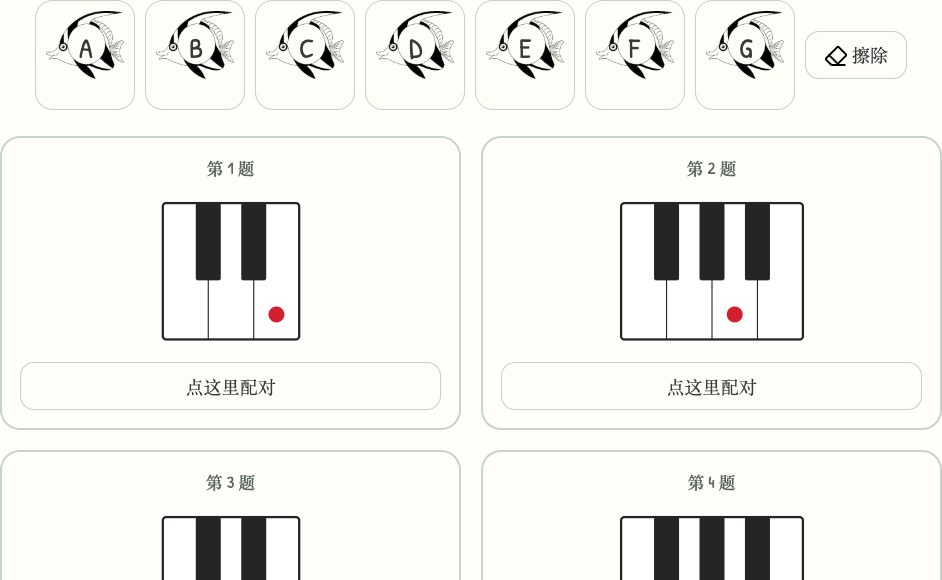
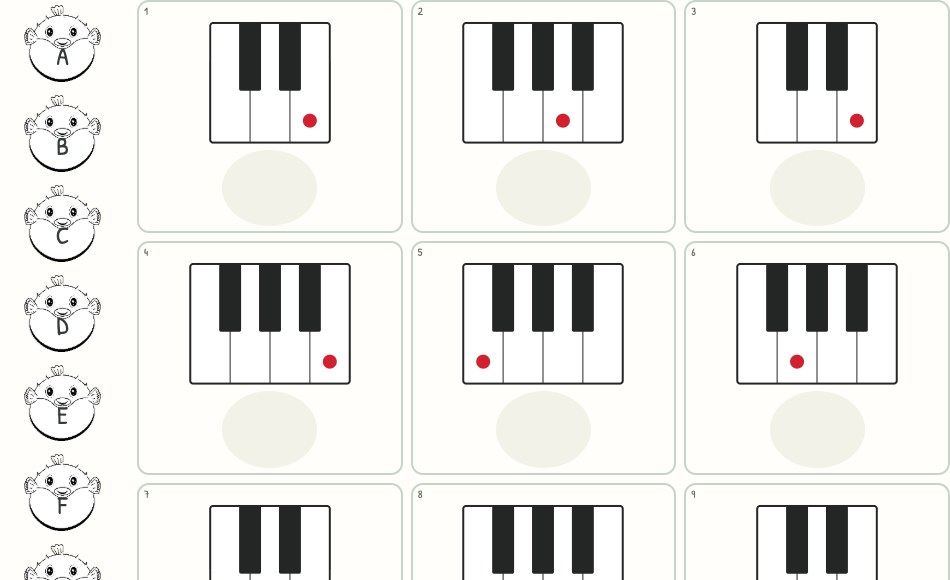
恢复P-005原图并改为九题同屏练习

Changed region(s): [[0.0, 0.0, 1.0, 1.0], [0.2155, 0.2793, 0.2771, 0.3103], [0.1231, 0.6207, 0.1539, 0.6517]]

diff --git a/keyboard_names.css b/keyboard_names.css
@@ -1,1 +1,46 @@
 .paper{padding:28px;min-height:0}.key-question-grid{display:grid;grid-template-columns:repeat(3,minmax(0,1fr));gap:20px}.key-question{min-width:0;border:2px solid #c5d5c7;border-radius:20px;background:#fffefa;padding:18px;text-align:center}.key-question h2{font-size:17px;color:#5a665e;margin:0 0 14px}.marked-keyboard{display:block;width:100%;max-width:300px;height:150px;margin:0 auto 18px}.match-target{width:100%;min-height:48px}.letter-choices{display:flex;flex-wrap:wrap;justify-content:center;gap:6px}.letter-choices button{min-width:44px;min-height:44px;padding:6px;font-size:24px}.letter-choices button[aria-pressed=true],.name-fish[aria-pressed=true]{outline:3px solid #aa462f;background:#fae6d4}.fish-bank{display:flex;flex-wrap:wrap;justify-content:center;gap:10px;margin:0 0 26px}.name-fish{position:relative;width:100px;min-height:110px;padding:6px;border-radius:18px}.name-fish img{display:block;width:100%;height:68px;object-fit:contain}.name-fish strong{position:absolute;left:44%;top:28px;font-size:28px}.name-fish small{display:block;height:20px;font-size:13px}.fish-bank>button[data-erase]{align-self:center;min-height:48px}.fish-bank>button[data-erase] img{vertical-align:middle}.cloud{position:static;display:inline-block;max-width:100%;margin:0 10px 20px 0}button:focus-visible{outline:3px solid #215eaa;outline-offset:3px}@media(max-width:1000px){.key-question-grid{grid-template-columns:repeat(2,minmax(0,1fr))}}@media(max-width:600px){.paper{padding:16px}.key-question-grid{grid-template-columns:1fr}.name-fish{width:80px}.name-fish strong{left:42%;top:30px;font-size:24px}.name-fish img{height:64px}.marked-keyboard{height:145px}}@media print{.fish-bank{break-inside:avoid}.key-question{break-inside:avoid}.key-question-grid{grid-template-columns:repeat(3,minmax(0,1fr))}}
+
+/* P-005 keeps the complete fish bank and all nine targets visible together. */
+body[data-activity="fish-keys"]{height:100dvh;display:flex;flex-direction:column;overflow:hidden}
+body[data-activity="fish-keys"] header{width:100%;padding:8px 18px;min-height:44px}
+body[data-activity="fish-keys"] main{width:min(1100px,100%);min-height:0;flex:1;display:flex;flex-direction:column;margin:0 auto;padding:0 12px}
+body[data-activity="fish-keys"] .profiles{margin:0 0 2px;font-size:12px;position:relative;z-index:3}
+body[data-activity="fish-keys"] .profiles[open]{position:absolute;top:44px;left:12px;right:12px;background:#fffefa;border:1px solid #ccc;border-radius:12px;padding:12px}
+body[data-activity="fish-keys"] .heading{padding:0}
+body[data-activity="fish-keys"] h1{font-size:25px;margin:0;letter-spacing:2px}
+body[data-activity="fish-keys"] .eyebrow,body[data-activity="fish-keys"] .subtitle,body[data-activity="fish-keys"] .instructions p:lang(en){display:none}
+body[data-activity="fish-keys"] .instructions{margin:3px 0 6px;display:flex;align-items:center;justify-content:center;gap:8px}
+body[data-activity="fish-keys"] .instructions p{font-size:14px;margin:0}
+body[data-activity="fish-keys"] .instructions #speak{margin:0;min-width:44px;min-height:44px;padding:4px 8px;white-space:nowrap}
+body[data-activity="fish-keys"] #speech-status:empty{display:none}
+body[data-activity="fish-keys"] .paper{flex:1;min-height:0;padding:8px 12px;display:flex;flex-wrap:wrap;border-radius:18px;align-content:stretch}
+body[data-activity="fish-keys"] .cloud{font-size:12px;min-width:0;padding:2px 8px;margin:0 8px 5px 0;max-width:70%;border:0;line-height:18px;height:22px}
+body[data-activity="fish-keys"] #activity-board{width:100%;min-height:0;flex:1;display:grid;grid-template-columns:clamp(65px,16vw,125px) minmax(0,1fr);gap:12px;height:calc(100% - 27px)}
+body[data-activity="fish-keys"] .fish-bank{display:grid;grid-template-columns:1fr;grid-template-rows:repeat(8,minmax(44px,1fr));gap:3px;margin:0;min-height:0}
+body[data-activity="fish-keys"] .name-fish{width:100%;height:100%;min-height:44px;padding:2px;border:1px solid transparent;border-radius:12px;background:#fffefa}
+body[data-activity="fish-keys"] .name-fish[data-used=true]{background:#c6e9ba;border-color:#88b477}
+body[data-activity="fish-keys"] .name-fish[aria-pressed=true]{background:#ffdf6b;outline:2px solid #b89229;outline-offset:-2px}
+body[data-activity="fish-keys"] .matched-fish{display:block;position:relative;width:100%;height:100%;min-height:24px;border:2px solid transparent;border-radius:50%}
+body[data-activity="fish-keys"] .matched-fish img{display:block;width:100%;height:100%;object-fit:contain}
+body[data-activity="fish-keys"] .matched-fish strong{position:absolute;left:50%;top:66%;transform:translate(-50%,-50%);font-size:clamp(17px,2.5vh,27px);line-height:1}
+body[data-activity="fish-keys"] .fish-bank>button[data-erase]{min-height:44px;height:100%;padding:2px;align-self:stretch}
+body[data-activity="fish-keys"] .key-question-grid{grid-template-columns:repeat(3,minmax(0,1fr));grid-template-rows:repeat(3,minmax(0,1fr));gap:8px;min-height:0}
+body[data-activity="fish-keys"] .key-question{padding:0;min-height:0;border-radius:12px;position:relative}
+body[data-activity="fish-keys"] .match-target{position:relative;display:flex;flex-direction:column;align-items:center;justify-content:center;width:100%;height:100%;min-height:44px;padding:5px;border:0;background:transparent;gap:3px}
+body[data-activity="fish-keys"] .question-number{position:absolute;left:5px;top:2px;font-size:11px;color:#66735f}
+body[data-activity="fish-keys"] .marked-keyboard{width:100%;height:0;min-height:0;flex:1;margin:8px 0 0;max-width:180px}
+body[data-activity="fish-keys"] .match-target .matched-fish{height:35%;width:70%;max-width:95px;flex-shrink:0;background:#f3f2e8}
+body[data-activity="fish-keys"] .match-target .matched-fish img{visibility:hidden}
+body[data-activity="fish-keys"] .match-target[aria-label*="已选"] .matched-fish img{visibility:visible}
+body[data-activity="fish-keys"] .matched-fish.fish-error{border:2px dashed #d32030}
+body[data-activity="fish-keys"] .retry-answer{position:absolute;right:3px;bottom:2px;background:#fff2b8;border:2px solid #d32030;border-radius:8px;min-width:24px;line-height:1.1;font-size:24px;color:#a41023}
+body[data-activity="fish-keys"] footer{padding:5px 0 8px;gap:4px 10px;flex-shrink:0}
+body[data-activity="fish-keys"] #feedback{margin:0;font-size:14px;min-height:20px;line-height:20px}
+body[data-activity="fish-keys"] footer button{min-height:44px;padding:4px 16px;font-size:16px}
+@media(max-height:600px){body[data-activity="fish-keys"] .profiles{display:none}body[data-activity="fish-keys"] .fish-bank{grid-template-columns:repeat(2,minmax(44px,1fr));grid-template-rows:repeat(4,minmax(44px,1fr))}body[data-activity="fish-keys"] #activity-board{grid-template-columns:clamp(100px,19vw,180px) minmax(0,1fr)}body[data-activity="fish-keys"] .heading h1{font-size:21px}body[data-activity="fish-keys"] .instructions{margin:0 0 3px}body[data-activity="fish-keys"] .match-target .matched-fish{height:42%;min-height:20px}body[data-activity="fish-keys"] .matched-fish strong{font-size:17px}}
+@media(max-width:450px){body[data-activity="fish-keys"] main{padding:0 6px}body[data-activity="fish-keys"] .paper{padding:6px}body[data-activity="fish-keys"] #activity-board{gap:6px}body[data-activity="fish-keys"] .key-question-grid{gap:5px}body[data-activity="fish-keys"] .instructions p{font-size:12px}body[data-activity="fish-keys"] .match-target{padding:4px 2px}}
+body[data-activity="fish-keys"] .paper{display:grid;grid-template-columns:minmax(0,1fr) auto;grid-template-rows:27px minmax(0,1fr);align-content:stretch}
+body[data-activity="fish-keys"] #activity-board{grid-column:1/-1;width:100%;height:100%}
+body[data-activity="fish-keys"] .cloud{max-width:100%;width:max-content}
+@media(max-height:600px){body[data-activity="fish-keys"] footer{flex-wrap:nowrap;padding:3px 0;min-height:50px}body[data-activity="fish-keys"] #feedback{flex-basis:auto;flex:1;text-align:left;font-size:12px;line-height:16px}body[data-activity="fish-keys"] footer button{padding:4px 12px;white-space:nowrap}body[data-activity="fish-keys"] .cloud{font-size:11px}}
+@media(max-height:600px) and (min-width:600px){body[data-activity="fish-keys"] .match-target{flex-direction:row;padding:4px 9px;gap:6px}body[data-activity="fish-keys"] .marked-keyboard{height:100%;width:65%;flex:none;margin:0}body[data-activity="fish-keys"] .match-target .matched-fish{height:100%;width:30%;min-height:24px}body[data-activity="fish-keys"] .question-number{left:3px;top:0}}

diff --git a/fish-keys.html b/fish-keys.html
@@ -41,22 +41,22 @@
         <p class="subtitle">Match the fish and the marked key</p>
       </div>
       <section class="instructions">
-        <p>先选一条音名小鱼，再点相应的键盘。每条小鱼只能配对一次；点擦除可清除配对。</p>
+        <p>先点左边的小鱼，再点右边的键盘。同一个音名可以重复使用。</p>
         <p lang="en">
-          Choose a note-name fish, then match it to the marked key.
+          Choose a fish, then the matching marked key. A note name may be used again.
         </p>
         <button id="speak">▶ 听题干</button>
         <p id="speech-status" role="status"></p>
       </section>
       <section class="paper">
         <div class="cloud cloud-one" id="student-label"></div>
-        <div class="cloud cloud-two">已填 <strong id="count">0</strong> / 7</div>
+        <div class="cloud cloud-two">已填 <strong id="count">0</strong> / 9</div>
         <div id="activity-board"></div>
       </section>
       <footer>
         <p id="feedback" role="status" aria-live="polite"></p>
-        <button id="check" class="primary">✓ 完成 · Done</button
-        ><button id="next">换一组 · New set ↻</button>
+        <button id="check" class="primary">✓ 检查</button
+        ><button id="next">↻ 换一组</button>
       </footer>
       <section id="celebration" hidden aria-label="全部答对庆祝">
         <button id="close-celebration" aria-label="关闭庆祝">×</button>

diff --git a/docs/progress_tracker.md b/docs/progress_tracker.md
@@ -846,3 +846,13 @@ Implemented P-005 `fish-keys.html` (seven one-to-one A–G fish/marked-key pairs
 Verification: 38 Node tests pass, including 500 generated sets per type and immutable move/replace/erase cases. Chrome checks derive answers independently from rendered red-marker coordinates and cover touch, keyboard focus, blank/third/sixth-error behavior, complete answers, celebration and reset. The seventeen-card hub loads every preview without resource/page errors. Legacy six-game checks pass 49 responsive screens and complete sessions; regressions pass touch, focus, audio cancellation and storage/speech failures. The full worksheet matrix passes 108 cases across six phone/tablet/desktop sizes. Phone, tablet portrait/landscape and desktop screenshots were inspected for both new activities; physical devices/Safari and human-audible speech remain unverified.
 
 Final packaged build: `8398f3d42114` (145 runtime files). Preview: http://127.0.0.1:8863/releases/8398f3d42114/activities.html. No push/deployment performed. Added real unanswered selector covers and CI coverage for the new complete-answer flow. Documentation updated: AGENTS, README, development, responsive design, provenance and this tracker; corrected stale P-004 publication wording in the README. Parent/games ownership and public overviews reviewed unchanged because their scope and procedures still apply; parent coordination tracker updated separately.
+
+## P-005 original fish and nine-question same-screen revision, 2026-11-23
+
+The user corrected the artwork and interaction requirements. Replaced the unrelated P-003 fish with an unchanged extraction of `word/media/image1.png` from `P-005键盘B.docx` (`assets/keyboard_fish.png`). P-005 now has nine marked-key questions covering A–G plus two distinct repeated notes. All seven reusable fish choices stay on the left and all nine keyboard targets stay on the right. Answers show fish artwork; no visible used/selected text badges remain. The current choice is yellow and previously used options are green. Repeatable choices, direct correction and erasing replace the previous one-to-one matching rule.
+
+P-005 alone now uses per-question first/second/third-error assistance: first reports how many answers need thought; second adds a red dashed ellipse around the incorrectly matched fish; third also displays the correct letter. Blank checks do not consume/reset failures, edits clear cues, and correct checks/new sets reset counters. P-006 and every other activity retain their existing assistance rules.
+
+Verification: 38 Node tests pass. The complete packaged P-005/P-006 flow passes independent red-marker answer derivation, touch/keyboard focus, reuse/erase, exact yellow/green colors, no text badges, respective hint thresholds, complete answers, celebration and reset. P-005 verifies all choices/targets/check/new-set controls fit together with at least 44px targets in seven viewports, including 320×568. Fresh phone portrait/landscape and tablet/desktop captures were inspected; landscape uses side-by-side keyboards/fish for legibility. The final packaged full responsive matrix passes all 108 cases. Legacy six-game checks pass 49 screen cases plus complete sessions, and the interaction/audio/storage regression suite and seventeen-card hub flow also pass against this build. The in-app browser was navigated to the actual revised nine-question page. Physical devices/Safari and human-audible speech remain unverified.
+
+Final build: `22ab1d88b5f8` (146 runtime files). Local preview: http://127.0.0.1:8865/releases/22ab1d88b5f8/fish-keys.html. No push/deployment. Updated AGENTS (explicit P-005 assistance override), README, development, responsive guidance, provenance, selector cover and this tracker. Parent/games ownership guides and public overviews reviewed unchanged because scope and workflow remain accurate. This entry supersedes the preceding P-005 implementation description; P-006 remains as previously implemented.

diff --git a/AGENTS.md b/AGENTS.md
@@ -131,7 +131,7 @@ Level 1 supports pointer dragging, tap-then-place, and keyboard controls. Incorr
 
 ## Graduated answer assistance, 2026-11-17
 
-The user requested this contract for every scored activity, superseding earlier
+Except for the later P-005-specific override below, the user requested this contract for every scored activity, superseding earlier
 aggregate-only and never-reveal rules. `src/retry_hints.mjs` owns session-only
 per-question counters, noninteractive red ellipse overlays, and correct-answer text
 next to the existing feedback. The third
@@ -166,4 +166,6 @@ The selector has seventeen cards: sixteen worksheets and Note Neighborhood. Ever
 
 ## P-005/P-006 keyboard note names, 2026-11-23
 
-`fish-keys.html`, `key-names.html`, `keyboard_names.css`, and `src/keyboard_names*.mjs` own these adaptations. P-005 pairs seven A–G fish with independently shuffled marked C–E/F–B keyboard groups. Matching is one-to-one, reversible and erasable; replacing a fish releases its previous match. P-006 has fifteen full C–B keyboards with red position markers, covering every natural note at least twice. Students choose A–G directly and may replace answers. No correctness is disclosed before checking. Both retain local profiles, user-triggered speech, session-only answers, keyboard/touch controls, third/sixth-error assistance and the shared celebration. Reflow cards across device sizes; keep original worksheet masters unchanged. Local preview only; this task does not authorize publication.
+`fish-keys.html`, `key-names.html`, `keyboard_names.css`, and `src/keyboard_names*.mjs` own these adaptations. P-005 has nine marked C–E/F–B keyboard questions covering all A–G notes plus two different repeated notes. Keep all seven reusable note-name fish options on the left and all nine targets on the right, visible together without page scrolling on phone, tablet and desktop in either orientation. Use the unchanged original round fish extracted from `P-005键盘B.docx` as `assets/keyboard_fish.png`. Current selection is yellow; options used in answers are green. Never add visible used/selected text badges. Answers show the selected fish, rather than a text-only match. Allow repeated use, direct replacement and erasing.
+
+P-005 is a user-requested exception to the shared third/sixth-error contract: the first answered error only reports the number needing thought, the second adds a red dashed ellipse around the incorrect matched fish, and the third additionally shows the correct letter next to it. Counters are per question; blanks do not consume/reset attempts, correct checks and new sets reset, and edits clear cues while retaining counts. Use `createRetryState` without changing global hint thresholds. P-006 retains fifteen full C–B keyboards, A–G direct answers and shared third/sixth-error hints. Both retain local profiles, user-triggered speech, session-only answers, keyboard/touch controls and celebration. Original worksheet masters remain unchanged. Local preview only; no publication authorization is inferred.

diff --git a/docs/responsive_design.md b/docs/responsive_design.md
@@ -64,3 +64,7 @@ The user canceled P-003’s added edge seaweed and its reserved gutter on 2026-1
 ## P-004 ordered fish layout
 
 P-004 uses twelve source note pairs in a fixed responsive grid, with three columns on larger screens, two on phones, and one on very narrow screens. Never randomize fish positions or distort decorations. Keep a single proportionally scaled bottom seaweed cluster separate from answer targets. Whole tones are blue; B–C and E–F semitones are red. Brush selection, fish painting, erasing, direct correction, local profiles, speech, third/sixth-error assistance and celebration share existing contracts. Answers are session-only; New page clears colors without rearranging fish. Original source masters remain unchanged. The full matrix now covers eighteen pages at six sizes (108 cases).
+
+## P-005 same-screen fish bank, 2026-11-23
+
+Keep the original round fish options permanently on the left and all nine marked keyboards on the right. Fit the entire exercise, feedback and check/new-set controls within the viewport without page scrolling. Reflow the left bank into two columns on short screens; arrange each target keyboard and matched fish side by side in short landscape viewports. Never distort artwork or shrink interaction regions below 44px. Use yellow current selection, green used options, and a red dashed matched-fish border after the second error. Verify 320×568 plus the six standard sizes and inspect landscape keyboard legibility. P-006 retains its existing scrolling card layout.

diff --git a/docs/asset_provenance.md b/docs/asset_provenance.md
@@ -159,4 +159,4 @@ The original `worksheets/p_pitch/P-004鱼PIC.jpg` supplies twelve natural-note p
 
 ## P-005/P-006 keyboard note names, 2026-11-23
 
-Visually reviewed `worksheets/p_pitch/P-005键盘PIC.jpg` and `P-006键盘PIC.jpg`. The source tasks provide note-name matching and marked-key naming. P-005 reuses the unchanged existing `assets/pitch_fish.png` extraction documented above; keyboards and red markers are original proportional SVG geometry. Existing licensed fonts, Lucide eraser and five-character celebration are reused. All original DOCX/PDF/PIC/AI masters remain unchanged. Selector covers are isolated unanswered screenshots. No external runtime resources are added.
+Visually reviewed `worksheets/p_pitch/P-005键盘PIC.jpg` and `P-006键盘PIC.jpg`. The source tasks provide note-name matching and marked-key naming. P-005 now uses `assets/keyboard_fish.png`, an unchanged extraction of `word/media/image1.png` from `worksheets/p_pitch/P-005键盘B.docx`, preserving its original round fish with native proportions; keyboards and red markers are original proportional SVG geometry. Existing licensed fonts, Lucide eraser and five-character celebration are reused. All original DOCX/PDF/PIC/AI masters remain unchanged. Selector covers are isolated unanswered screenshots. No external runtime resources are added.

diff --git a/docs/development.md b/docs/development.md
@@ -191,4 +191,4 @@ The seventeen-card hub uses real unanswered exercise captures, bundled as `asset
 
 ## P-005/P-006 verification
 
-Open `/fish-keys.html` and `/key-names.html`. Run `BASE_URL=<runtime-directory-url> node tests/keyboard_names_browser.mjs` for independent answer derivation from rendered red-marker coordinates, one-to-one reassignment/erase, touch, keyboard focus, blank/third/sixth hints, complete answers, celebration and reset. Node tests cover 500 generated sets per type and immutable reassignment. Both pages are included in the 108-case responsive matrix and runtime allowlist.
+Open `/fish-keys.html` and `/key-names.html`. Run `BASE_URL=<runtime-directory-url> node tests/keyboard_names_browser.mjs` for independent answer derivation from rendered red-marker coordinates, reusable fish choices/erase, touch, keyboard focus, P-005 first/second/third-error hints and P-006 third/sixth-error hints, complete answers, celebration and reset. Node tests cover 500 generated sets per type and immutable answer replacement. P-005 additionally checks seven viewport sizes (including 320px width), 44px interaction targets and simultaneous visibility of every option, target and completion button without vertical page scrolling. Both pages are included in the 108-case responsive matrix and runtime allowlist.

diff --git a/README.md b/README.md
@@ -121,4 +121,4 @@ P-002 (`key-notes.html`) offers nine staff-reading tasks: identify the note inde
 
 ## Keyboard note-name practice
 
-P-005 (`fish-keys.html`) matches seven A–G fish to marked keys in two- and three-black-key groups. Matches can be moved, replaced, or erased. P-006 (`key-names.html`) asks children to name fifteen marked white keys using A–G choices. Both support direct correction, Chinese instruction speech, local display profiles, graduated hints and celebration. Available locally for review.
+P-005 (`fish-keys.html`) uses the original round fish and nine marked-key questions. Reusable A–G fish choices stay on the left, with all nine questions visible on the right. Yellow shows the current choice and green shows used choices. Answers can be replaced or erased; the second incorrect check circles the selected fish and the third shows the answer. P-006 (`key-names.html`) asks children to name fifteen marked white keys using A–G choices. Both support direct correction, Chinese instruction speech, local display profiles, graduated hints and celebration. Available locally for review.
